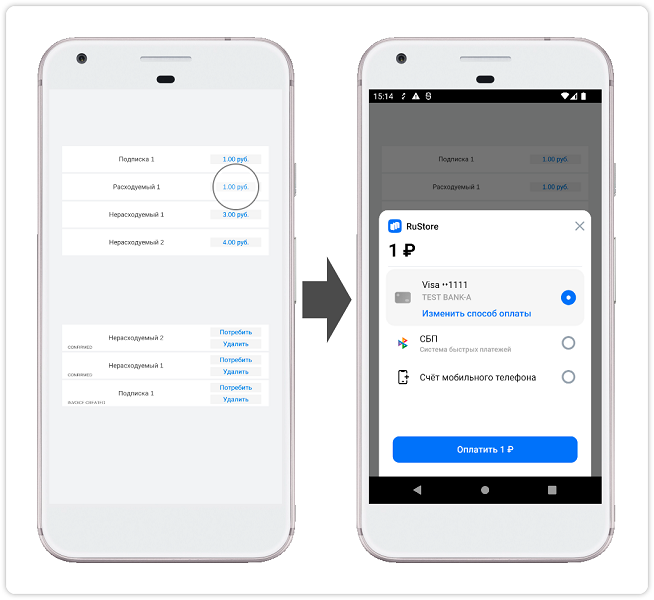
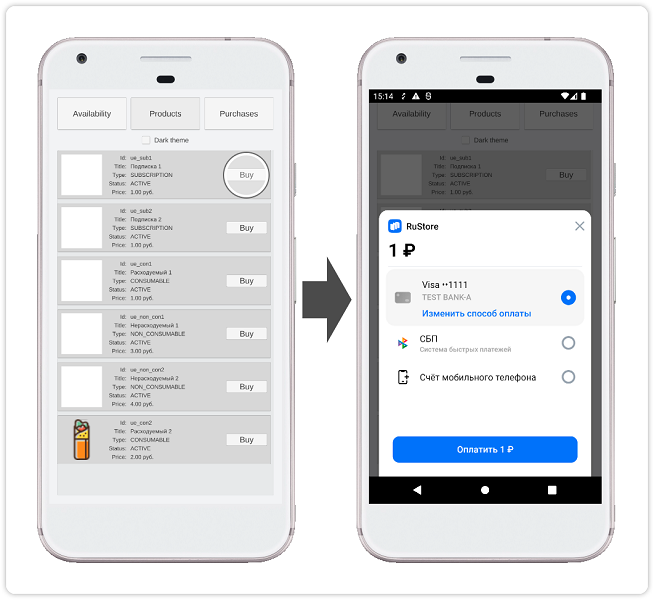
Update Readme

diff --git a/billing_example/README.md b/billing_example/README.md
@@ -65,16 +65,23 @@
 
 ### Сценарий использования
 
-#### Начальный экран приложения
+#### Проверка доступности работы с платежами
 
-Начальный экран приложения содержит список доступных продуктов и список покупок.
+Начальный экран приложения не содержит загруженных данных и уведомлений. Тап по кнопке `ДОСТУПНОСТЬ` выполняет [проверку доступности платежей][20].
 
-![Проверка доступности платежей](images/01_start.png)
+![Проверка доступности платежей](images/02_check_purchases_availability.png)
+
+
+#### Получение списка продуктов
+
+Тап по кнопке `ПРОДУКТЫ` выполняет получение и отображение [списка продуктов][30].
+
+![Получение списка продуктов](images/03_update_products_list.png)
 
 
 #### Покупка продукта
 
-Тап по кнопке с ценой продукта выполняет запуск сценария [покупки продукта][20] с отображением шторки выбора метода оплаты.
+Тап по кнопке `Купить` выполняет запуск сценария [покупки продукта][40] с отображением шторки выбора метода оплаты.
 
 ![Покупка продукта](images/04_purchase.png)
 
@@ -89,4 +96,6 @@
 Дополнительная помощь и инструкции доступны на странице [rustore.ru/help/](https://www.rustore.ru/help/) и по электронной почте [support@rustore.ru](mailto:support@rustore.ru).
 
 [10]: https://www.rustore.ru/help/sdk/payments/unity/6-1-1
-[20]: https://www.rustore.ru/help/sdk/payments/unity/6-1-1#%D0%BF%D0%BE%D0%BA%D1%83%D0%BF%D0%BA%D0%B0-%D0%BF%D1%80%D0%BE%D0%B4%D1%83%D0%BA%D1%82%D0%B0
+[20]: https://www.rustore.ru/help/sdk/payments/unity/6-1-1#checkpurchasesavailability
+[30]: https://www.rustore.ru/help/sdk/payments/unity/6-1-1#getproducts
+[40]: https://www.rustore.ru/help/sdk/payments/unity/6-1-1#purchaseproduct
